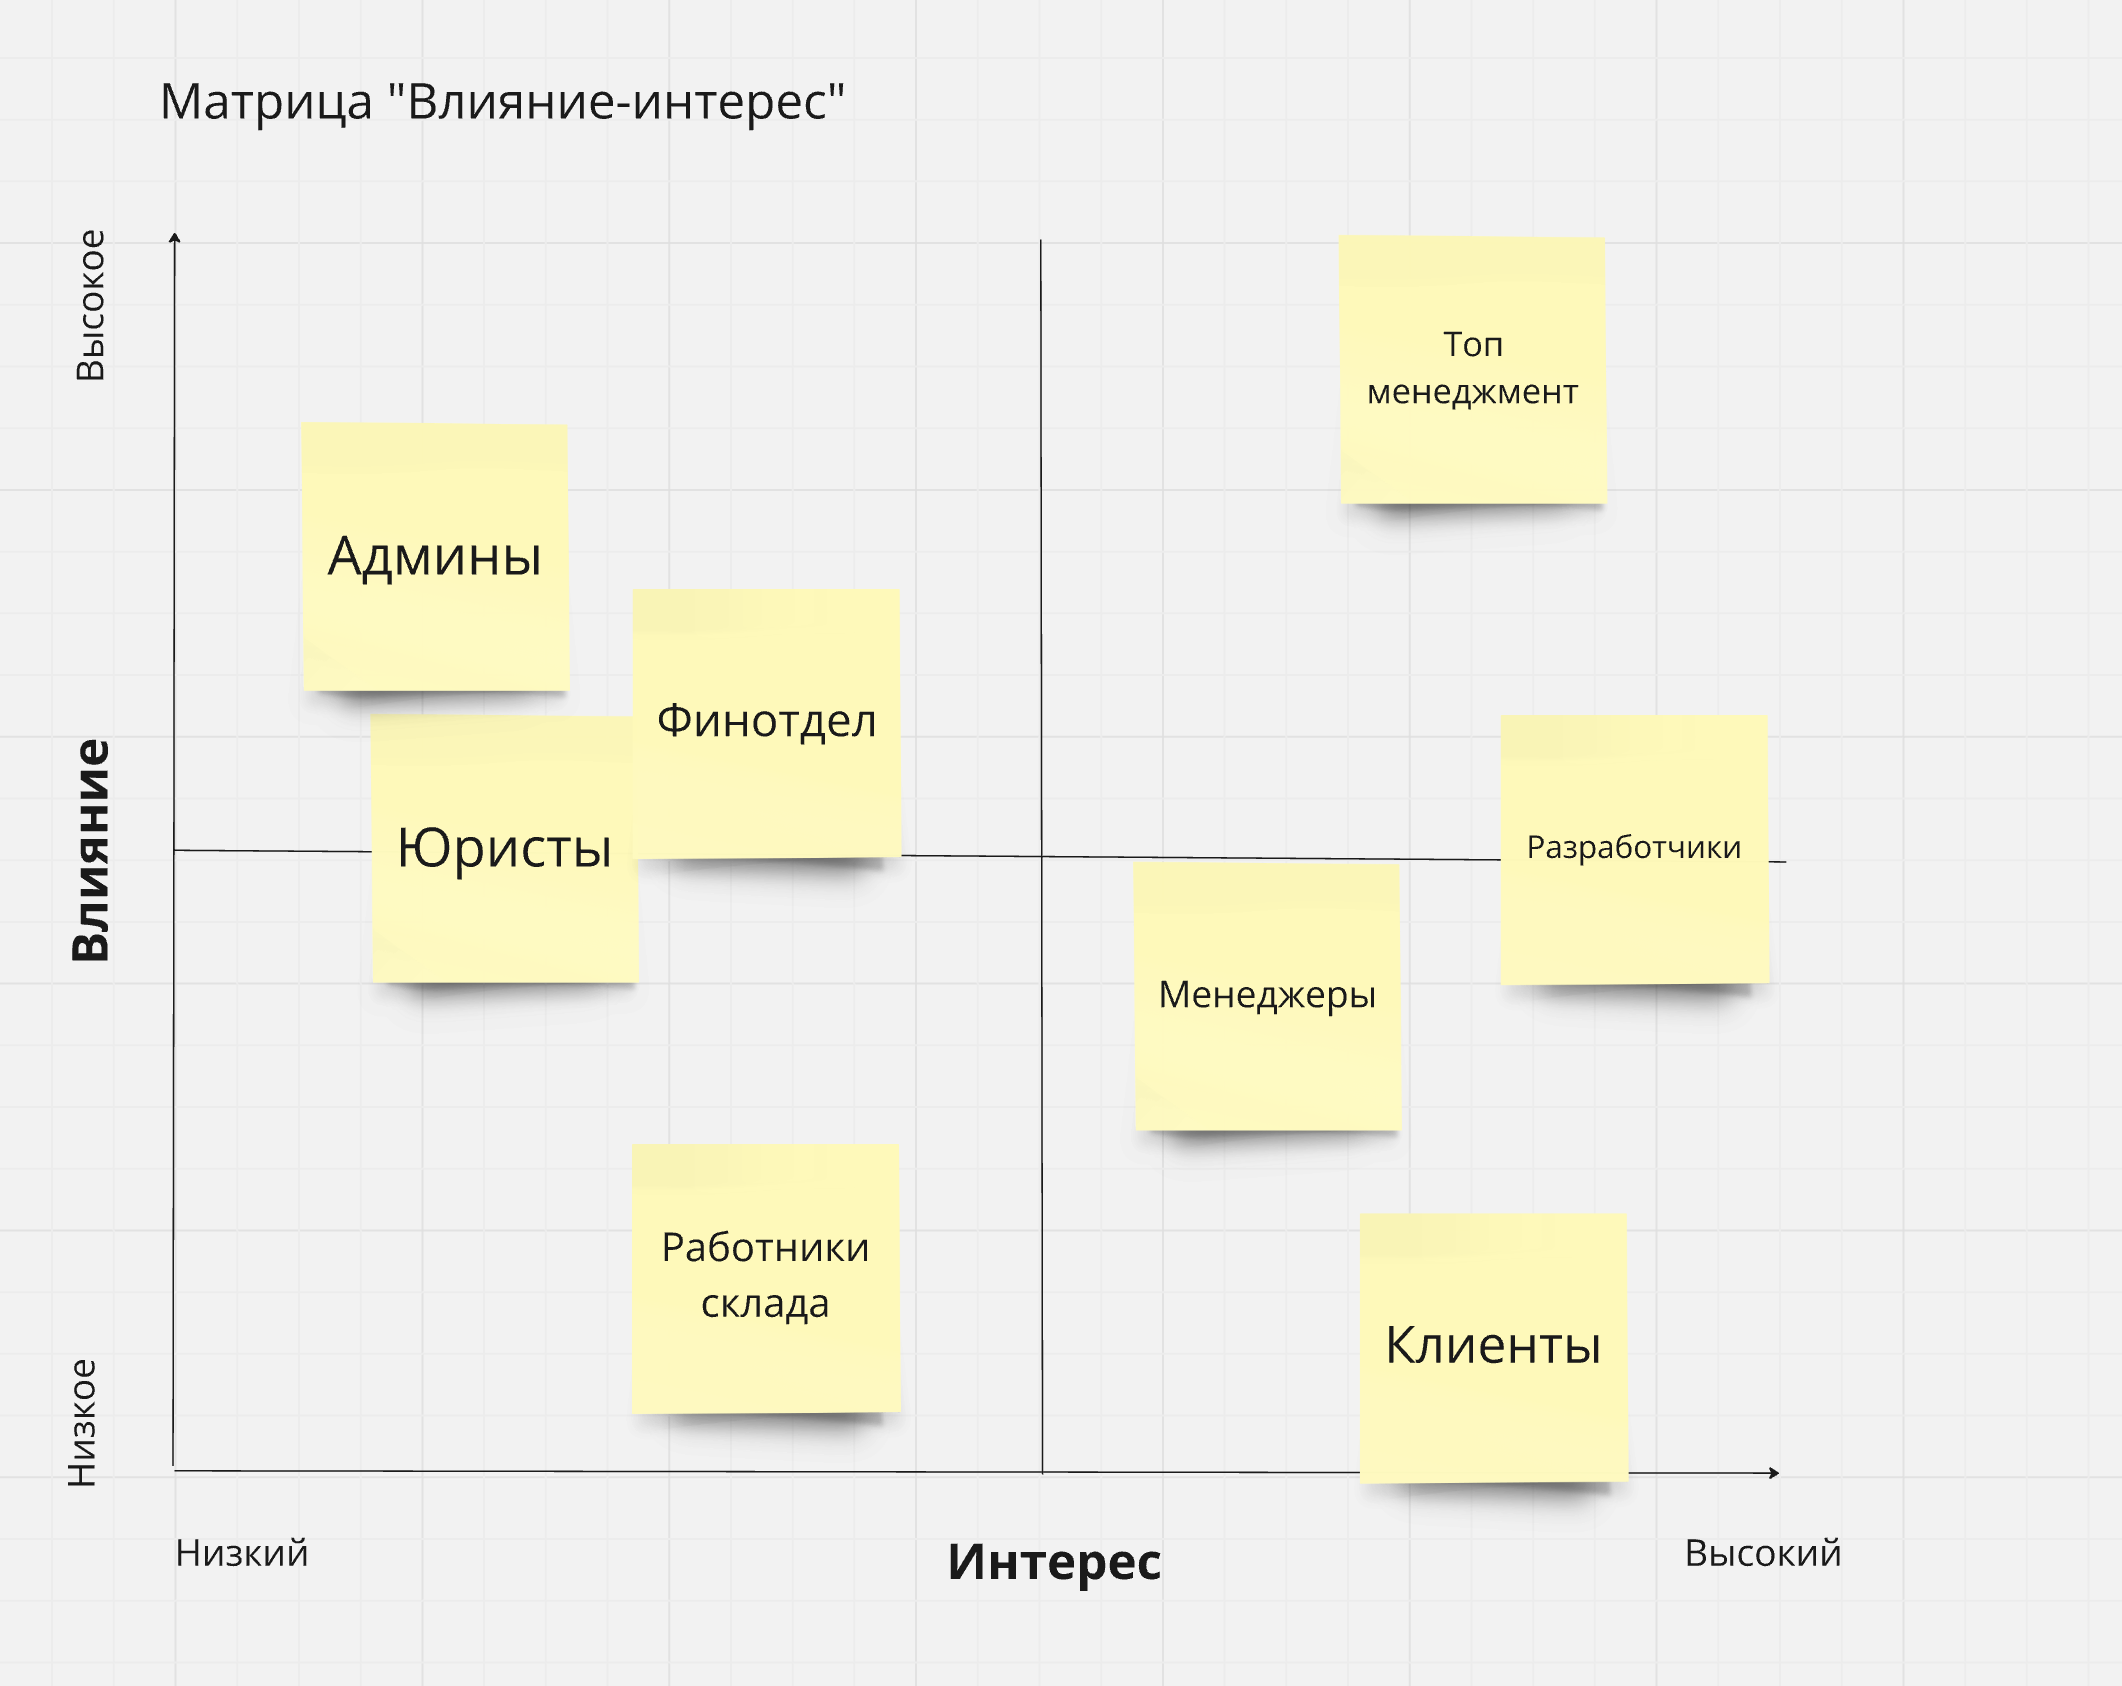
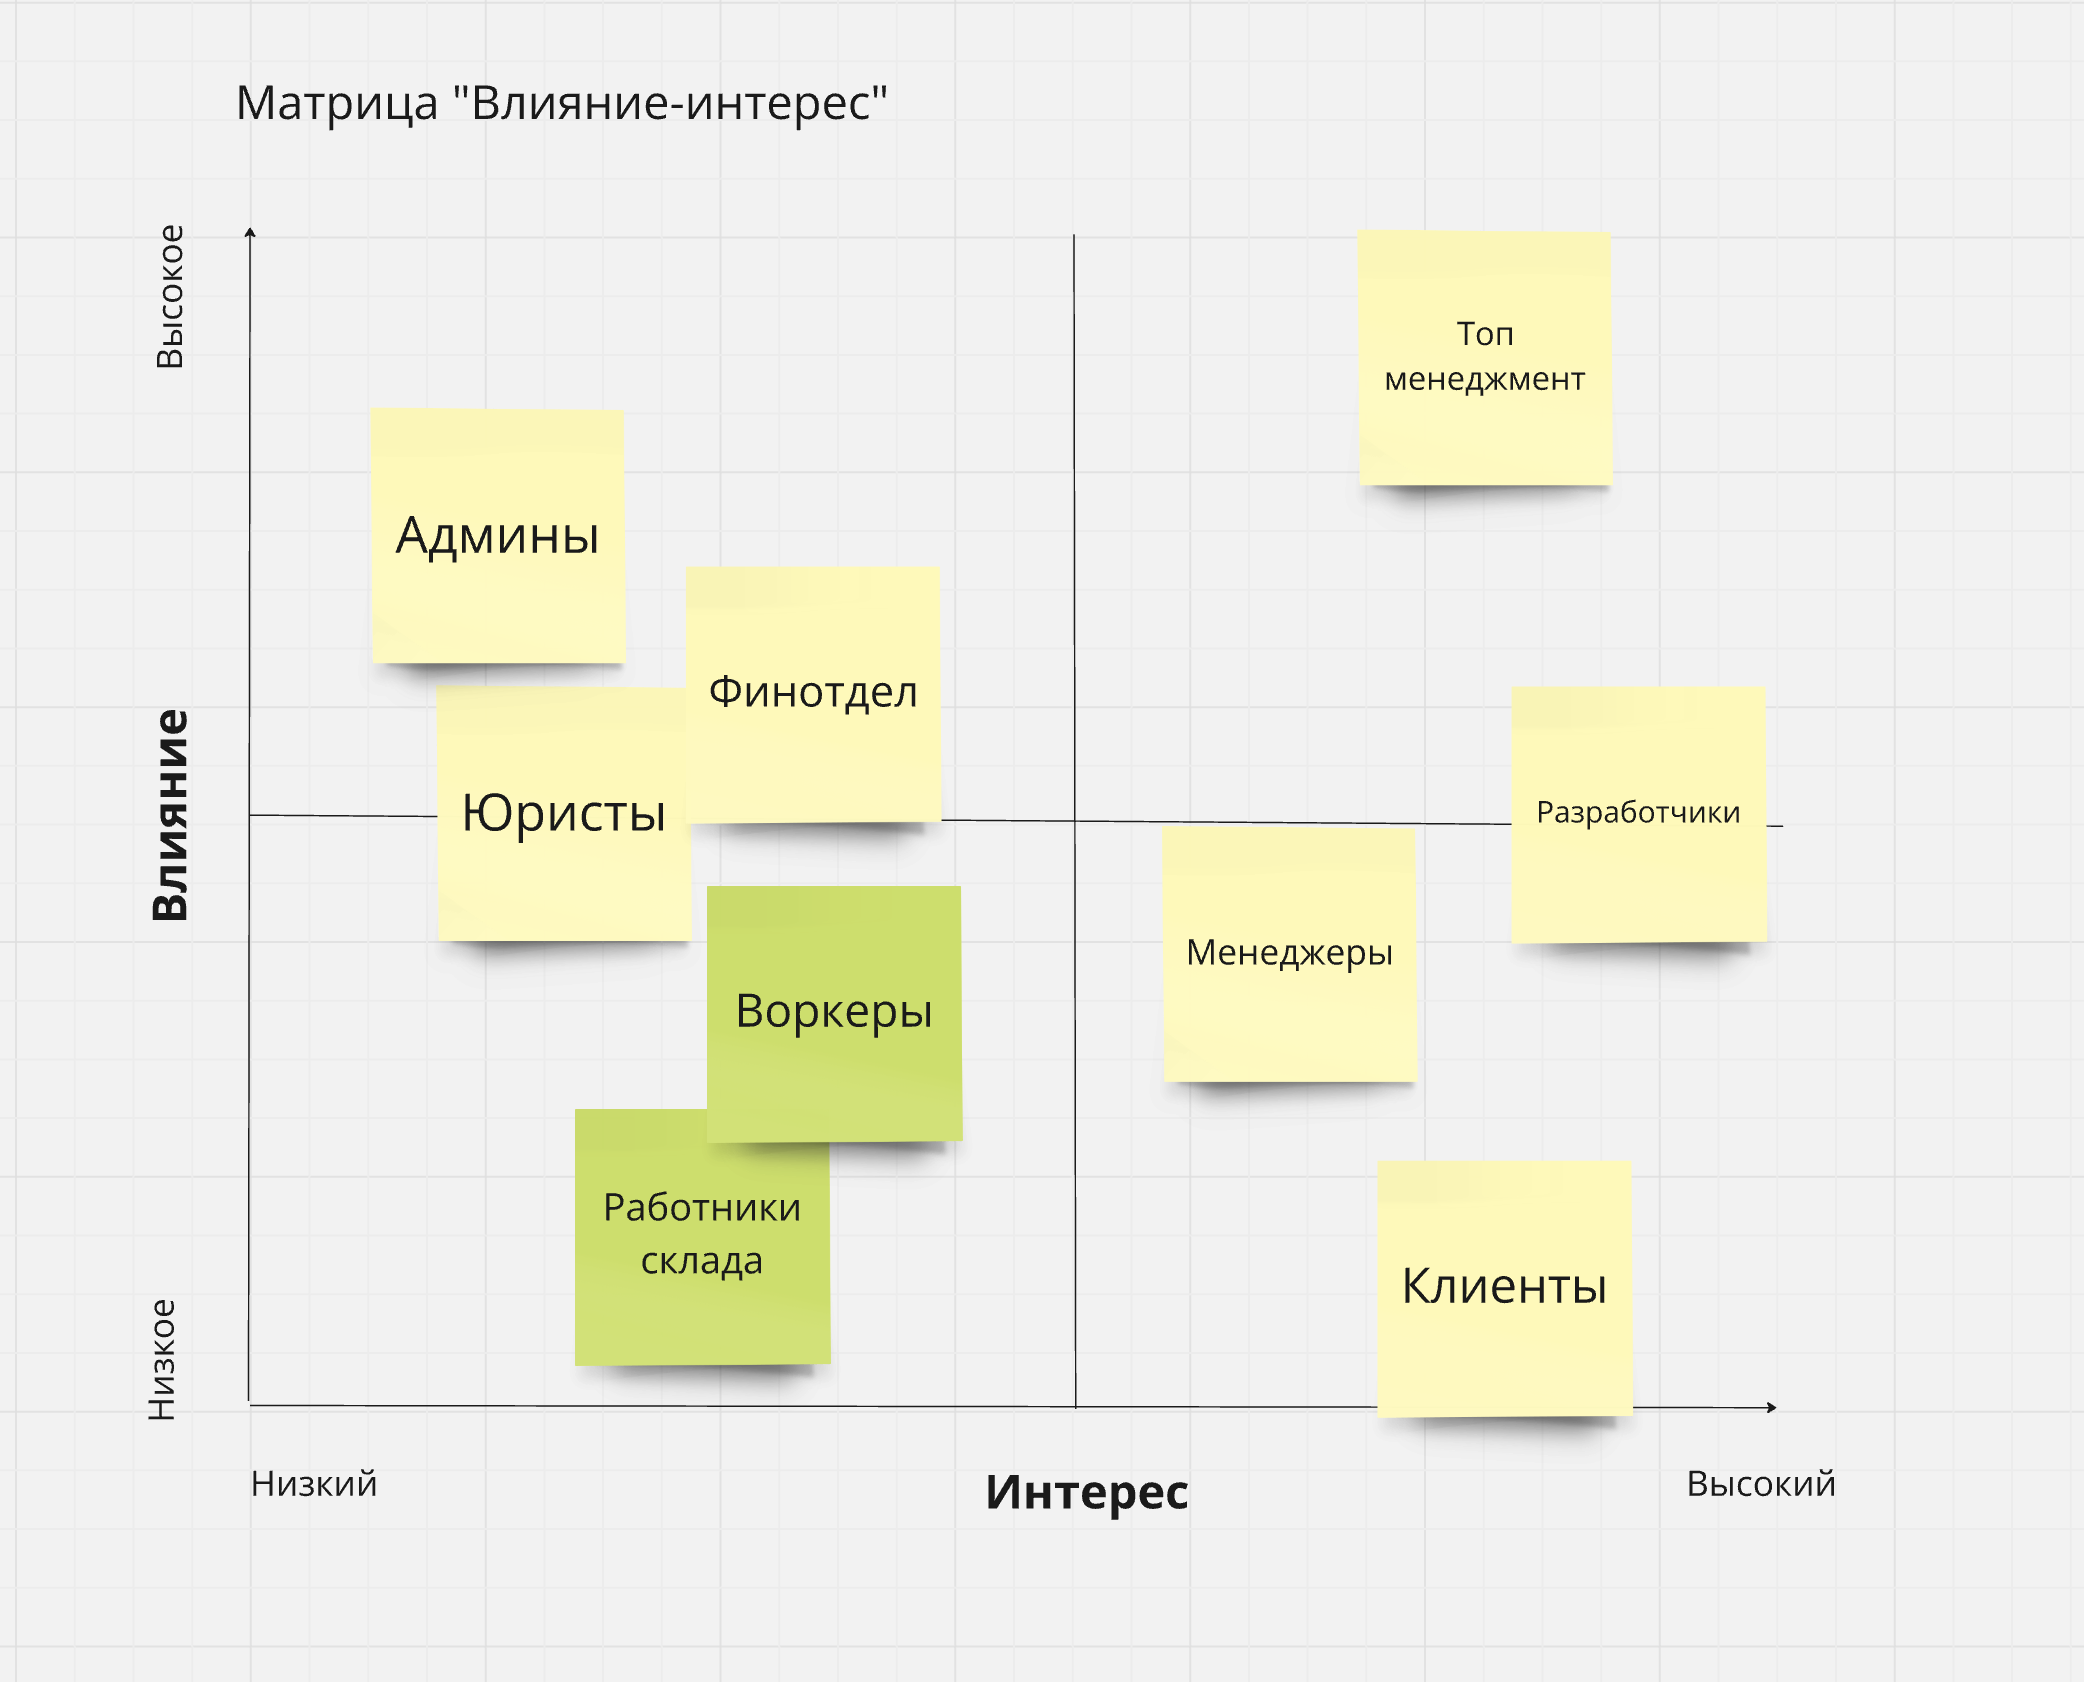
upd hw3

diff --git a/hw3/readme.md b/hw3/readme.md
@@ -6,10 +6,16 @@
 ![Stackholders](./stackholders.png  "Stackholders")
 [Ссылка на png](stackholders.png)
 
+Зелёным выделены стекхолдеры найденные самостоятельно. Предположу, что воркеры хотели бы сами выставлять желаемую нагрузку в день и иметь возможность взять выходные. Это все повлияет на bounded-контекст матчинга воркеров. Консерны работников склада описаны в user-story - они хотят простой интерфейс.
+
 Характеристики
 --------------
 ![Characteristics](./characteristics.jpg  "Characteristics")
 [Ссылка на jpg](characteristics.jpg)
+
+Есть сомнения, что воркеры справятся с описанной менеджерами нагрузкой в 10 заказов в минуту. Имитационным моделированием я посчитал, что для этого придётся иметь штат минимум в 700 воркеров. Учитывая высокие критерии отбора в воркеры, нанять такое количество будет проблематично. Если нагрузка увеличится, то потребуется еще больше исполнителей.
+
+Скорее всего придётся отказаться от части заказов.
 
 Структура
 ---------
